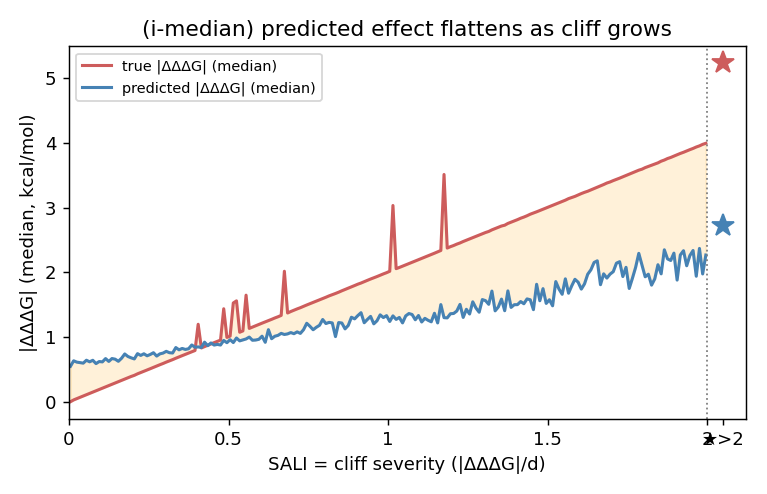
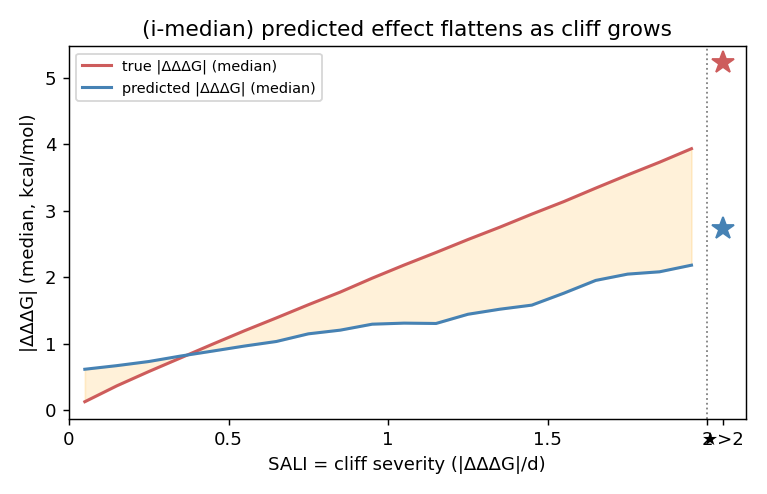
mutation-cliff §4.1: SALI granularity 0.01 -> 0.1 (20 bins + >2); figures & detail tables both at 0.1

diff --git a/reproduce/mutation_cliff_viz.py b/reproduce/mutation_cliff_viz.py
@@ -145,7 +145,7 @@ def perif(d,gcol,xc,yc):
     f=lambda v:(np.nanmean(v) if n>=MINIF else np.nan)
     return f(pe),f(sp),f(rm),n
 
-BW=0.01; TOP=2.0; HIX=2.05      # [0,2) step=0.01 细桶 + 一个 >2 聚合点(画在 x=2.05)
+BW=0.1; TOP=2.0; HIX=2.05       # [0,2) step=0.1 细桶 + 一个 >2 聚合点(画在 x=2.05)
 fedges=np.round(np.arange(0,TOP+1e-9,BW),2); ctr=fedges[:-1]+BW/2
 P["fb"]=pd.cut(P.SALI,fedges,labels=False,right=False)
 groups={int(k):v for k,v in P.dropna(subset=["fb"]).groupby("fb")}
@@ -205,15 +205,20 @@ for ax,k in zip(axes.flat,"abcd"):
 fig.suptitle("Per-SALI-bin (step=0.01, 0–2) + >2: correlations RISE (SNR artifact), only RMSE rises=worse",fontsize=11)
 fig.tight_layout(); fig.savefig(os.path.join(OUT,"adit_cliff_metrics.png")); plt.close(fig)
 
-# ---- coarse 汇总表(md 用): 0-.5,.5-1,1-1.5,1.5-2,>2 ----
-cedges=[0,0.5,1,1.5,2,1e9]; clab=["0-.5",".5-1","1-1.5","1.5-2",">2"]
-P["cb"]=pd.cut(P.SALI,cedges,labels=clab,right=False)
-print("\n=== §4 coarse 汇总(table 用)===")
-for L in clab:
-    q=P[P.cb==L]; mo,M=metrics_of(q)
-    print(f"  {L}: n={len(q)} | true {q.absT.mean():.2f}/{q.absT.median():.2f} pred {q.absP.mean():.2f}/{q.absP.median():.2f} "
-          f"| a {mo['a'][0]:.2f}/{mo['a'][1]:.2f}/{mo['a'][2]:.2f} | b {mo['b'][0]:.2f}/{mo['b'][1]:.2f}/{mo['b'][2]:.2f} "
-          f"| c {mo['c'][0]:.2f}/{mo['c'][1]:.2f}/{mo['c'][2]:.2f} | d {mo['d'][0]:.2f}/{mo['d'][1]:.2f}/{mo['d'][2]:.2f}")
+# ---- 0.1 粒度明细表(md 用):每个 fine 桶 + >2 ----
+cnt=np.array([len(groups[i]) if i in groups else 0 for i in range(n)])
+print("\n=== §4.1 (i) flatten 明细表(0.1 粒度)markdown ===")
+for i in range(n):
+    if np.isnan(mt[i]): continue
+    print(f"| {fedges[i]:.1f}–{fedges[i+1]:.1f} | {cnt[i]:,} | {mt[i]:.2f} | {mp[i]:.2f} | {mdt[i]:.2f} | {mdp[i]:.2f} |")
+print(f"| **>2** | {len(HI):,} | {hi_mt:.2f} | {hi_mp:.2f} | {hi_mdt:.2f} | {hi_mdp:.2f} |")
+print("\n=== §4.1 (ii) 12 指标明细表(0.1 粒度)markdown ===")
+for i in range(n):
+    if np.isnan(res['a']['P'][i]): continue
+    r=lambda k:f"{res[k]['P'][i]:.2f}/{res[k]['S'][i]:.2f}/{res[k]['R'][i]:.2f}"
+    print(f"| {fedges[i]:.1f}–{fedges[i+1]:.1f} | {r('a')} | {r('b')} | {r('c')} | {r('d')} |")
+hr=lambda k:f"{hmo[k][0]:.2f}/{hmo[k][1]:.2f}/{hmo[k][2]:.2f}"
+print(f"| **>2** | {hr('a')} | {hr('b')} | {hr('c')} | {hr('d')} |")
 
 # ======================= 表:diff_percent =======================
 P["diff_percent"]=(P.pred_jump-P.true_jump)/P.true_jump.replace(0,np.nan)
